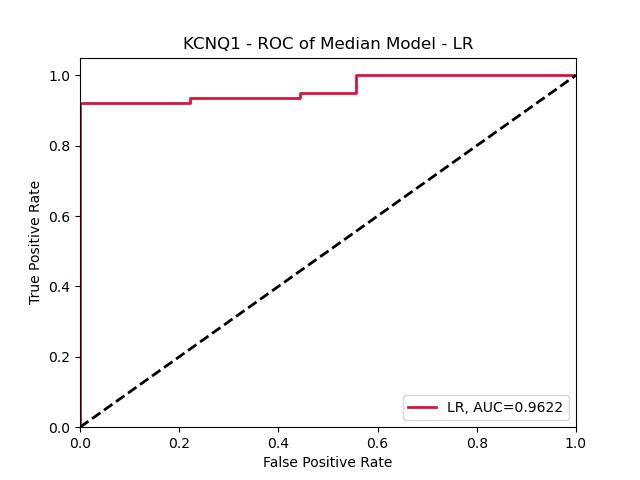
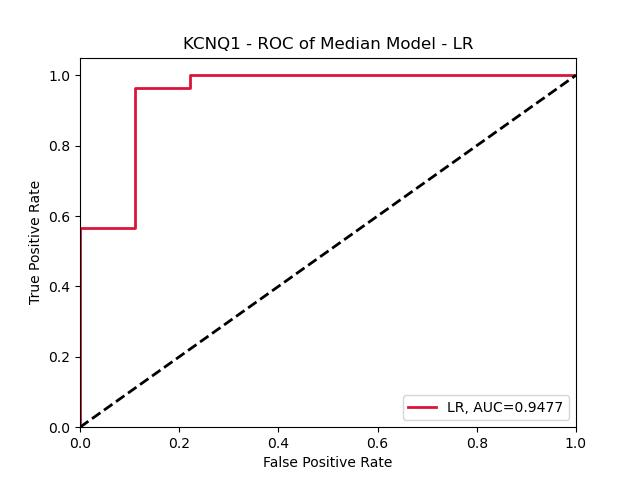
progress

Changed region(s): [[0.125, 0.1562, 0.5625, 0.5], [0.8438, 0.8125, 0.875, 0.875]]

diff --git a/main.py b/main.py
@@ -33,12 +33,14 @@ class RunStudy:
             data = prepare_data.PrepareData(gene_name, all_features, seed) #Get data object with train/test splits for given seed
             print('\n*** Running ', modeling_approach,'***')
             run = run_models.RunModels(modeling_approach, data, what_to_run, seed) 
-            evaluate = evaluate_models.EvaluateModels(modeling_approach, data, run.best_model, seed)
+            evaluate = evaluate_models.EvaluateModels(modeling_approach, data, run.best_model, seed) #Evaluate best_model obtained from cross validation
             self.best_models_from_cross_validation[seed] = run.best_model
             print(evaluate.results_dict)
             results_dict_list.append(evaluate.results_dict)
 
-        results_df = pd.DataFrame.from_dict(results_dict_list).sort_values(by='Test AUC', ascending=False)
+        results_df = pd.DataFrame.from_dict(results_dict_list)
+        results_df = results_df.sort_values(by=list(results_df.columns[3:]), ascending=False)
+        #We need to group by hyperparameters, see which group performed the best across all different seeds and then use that group as the best model.
         print(results_df)
         self.results_df = results_df
         #Get seed for the best and median test AUC models to get the models and the splits used for their generation
@@ -46,11 +48,11 @@ class RunStudy:
         seed_best_model = results_df.iloc[0, 0]
         self.median_model = self.best_models_from_cross_validation[seed_median_model]
         self.best_model = self.best_models_from_cross_validation[seed_best_model]
-        self.data_best_model = self.get_prepared_data(self.gene_name, seed_best_model)
-        self.data_median_model = self.get_prepared_data(self.gene_name, seed_median_model)
+        self.data_best_model = prepare_data.PrepareData(self.gene_name, all_features, seed_best_model)
+        self.data_median_model = prepare_data.PrepareData(self.gene_name, all_features, seed_median_model)
 
 
-RunStudy('KCNQ1', 'grid_search', 'LR', iterations=10)
+RunStudy('KCNQ1', 'grid_search', 'LR', iterations=3)
 # RunStudy('MYH7', 'grid_search', 'LR', iterations=100)
 # RunStudy('RYR2', 'grid_search', 'LR', iterations=100)
 
